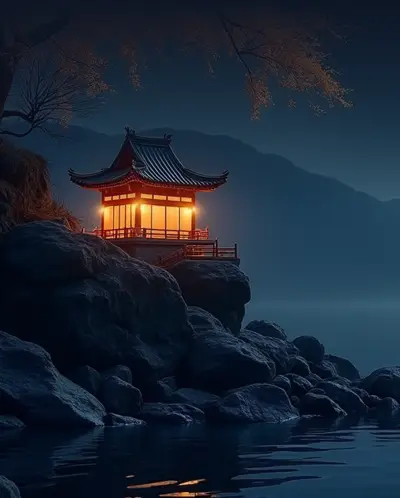
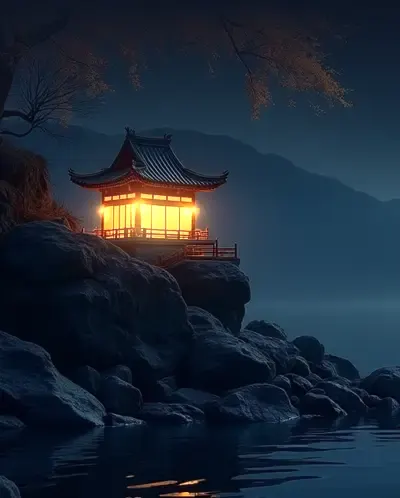
左栏夜景亭子的灯调亮、加暖光和慢慢呼吸的光；技术单左栏「今日设置」移到工作台上面那一行
- side-night.webp：亭子的灯调亮、加暖黄光晕
- 左栏加一层叠在灯上的光，3.2 秒慢慢呼吸（减少动态时不动）
- 技术单左栏的「今日设置」卡会盖住亭子：拿掉，国内 / 海外和「改设置」放到工作台问候那一行

Claude-Session: https://claude.ai/code/session_0124gJeNmW63DCi4J1meRHe4

Changed region(s): [[0.24, 0.3614, 0.54, 0.512], [0.45, 0.9639, 0.48, 1.0]]

diff --git a/tech/index.html b/tech/index.html
@@ -917,7 +917,7 @@ if (!window.JSZip) document.write('<script src="https://cdn.jsdelivr.net/npm/jsz
       return '<button type="button" class="kpi' + (cls || '') + '" style="--k:' + dot + '" ' + (attr || 'data-filter="' + k + '" aria-pressed="' + (state.filter === k) + '"') + '><span class="ki"><svg viewBox="0 0 24 24" fill="none" stroke="currentColor" stroke-width="1.9" stroke-linecap="round" stroke-linejoin="round" aria-hidden="true">' + KI[k] + '</svg></span><span class="kt"><span class="l">' + t + '</span><span class="n">' + n + '<small>' + (k === 'todo' ? '件' : '单') + '</small></span></span></button>';
     };
     var WD = '日一二三四五六', dm = String(state.date || '').split('.'), wd = dm.length === 3 ? new Date(+dm[2], dm[1] - 1, +dm[0]).getDay() : -1;
-    h += '<div class="g-hello"><span>' + ICON.cal + esc(state.date) + (wd >= 0 ? '（周' + WD[wd] + '）' : '') + '</span><span>您好，' + esc(state.reviewer || 'martin') + '</span><span>' + state.results.length + ' 个文件 · 今日共 <b>' + all.length + '</b> 单' + (open.length ? '，<b class="r">' + open.length + '</b> 件待你决定' : '') + '</span></div>';
+    h += '<div class="g-hello"><span>' + ICON.cal + esc(state.date) + (wd >= 0 ? '（周' + WD[wd] + '）' : '') + '</span><span>您好，' + esc(state.reviewer || 'martin') + '</span><span>' + esc(regionOf(allOutputs())) + '<button type="button" class="btn link" style="min-height:30px;padding:0 4px" data-view="upload" data-focus="f-reviewer">改设置</button></span><span>' + state.results.length + ' 个文件 · 今日共 <b>' + all.length + '</b> 单' + (open.length ? '，<b class="r">' + open.length + '</b> 件待你决定' : '') + '</span></div>';
     h += '<section class="kpis" aria-label="这批的数字">' +
       kpi('todo', '待你决定', 'var(--crit)', open.length, open.length ? ' hot' : '') +
       kpi('problem', '有问题', 'var(--crit)', cnt('problem')) +

diff --git a/hq/gold.css b/hq/gold.css
@@ -153,3 +153,13 @@ header .g-tile{width:46px;height:46px} header .g-tile svg{width:22px;height:22px
 .g-tt b,.top h1{font-size:22px;letter-spacing:2px}
 .g-user,header .g-logout,header .btn.small{min-height:40px}
 .g-topbg::after{opacity:.38}
+
+/* 左栏夜景：亭子的灯慢慢呼吸（光晕叠在图上，位置跟着图：图宽 = 左栏宽，亭子在图的 37.5% / 44%） */
+.g-side::after{content:"";position:absolute;left:0;right:0;bottom:0;aspect-ratio:400/498;pointer-events:none;z-index:0;
+  background:radial-gradient(ellipse 30% 13% at 37.5% 44%,rgba(255,196,110,.55),rgba(255,170,70,.18) 55%,transparent 75%);mix-blend-mode:screen;animation:gLamp 3.2s ease-in-out infinite}
+.g-side>*{z-index:1}
+@keyframes gLamp{0%,100%{opacity:.55}45%{opacity:1}60%{opacity:.8}}
+@media (prefers-reduced-motion:reduce){.g-side::after{animation:none;opacity:.8}}
+/* 技术单左栏：「今日设置」跟在选单下面、精简一点；退出贴底；中间留给亮灯的亭子 */
+.g-side .today{display:none}   /* 老板的设计图左栏没有这张卡；日期、审核人、国内 / 海外、改设置都在工作台上面那一行 */
+.g-side .g-out{margin-top:auto}
